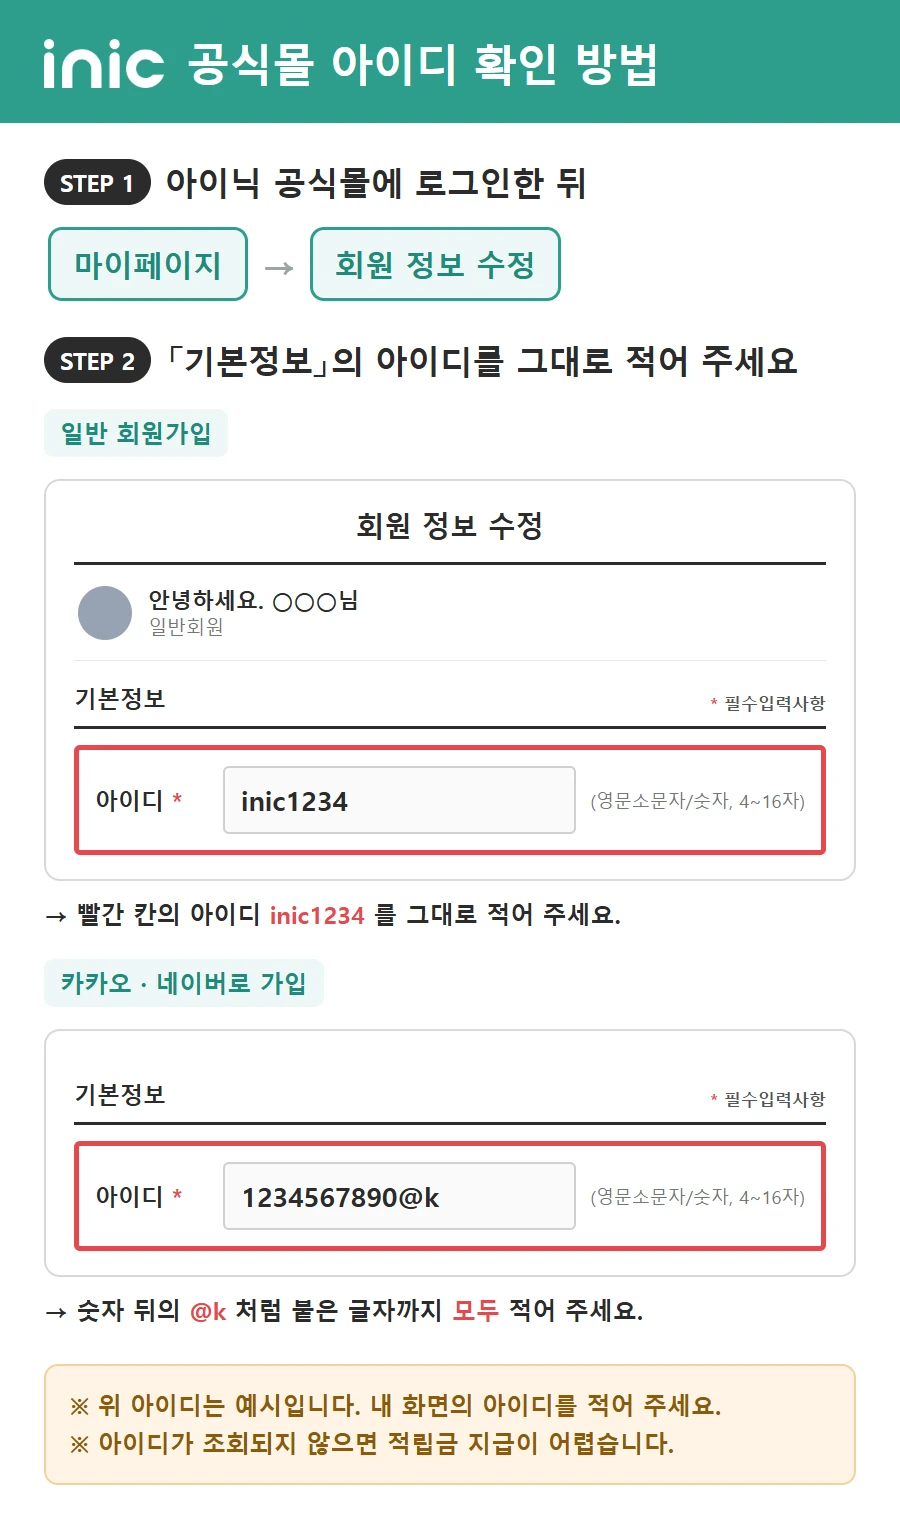
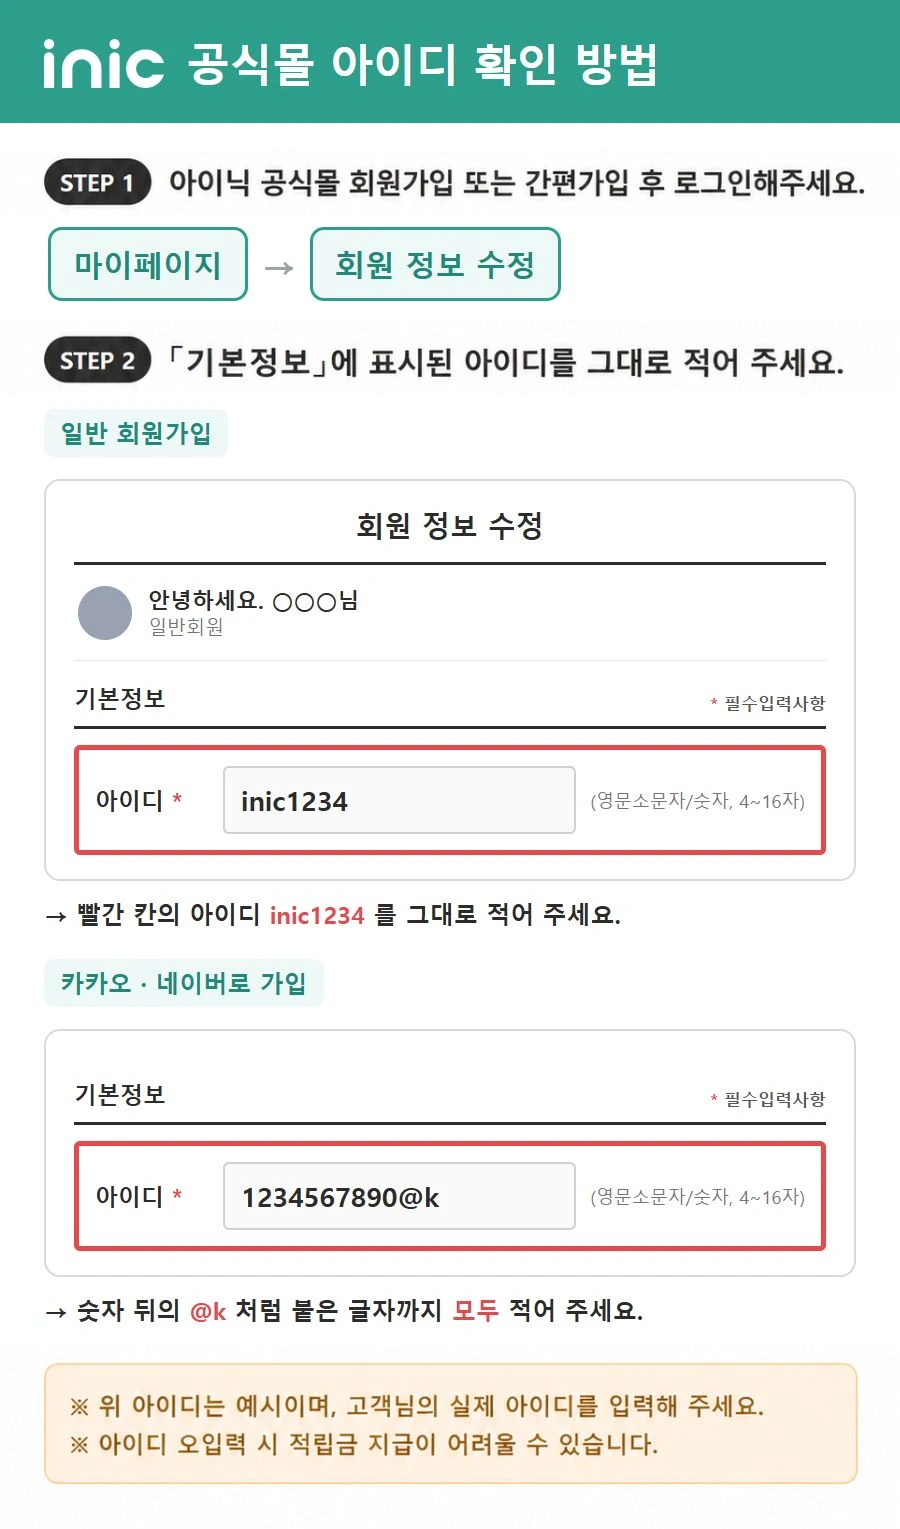
접수폼·관리자 화면: 포인트 「전체 지급 완료」·지급일(고객검색·참여 조회) · 상품권 재발송(수기접수 탭·상품권 탭·고객검색 재발송 내역·일괄 출고 「상품권 재발송」 시트) · 접수폼 「다른 아이디로 받기」·가입 방식 표시 · 공식몰 아이디 안내 이미지 최신본

diff --git a/index.html b/index.html
@@ -179,9 +179,13 @@
   /* 공식몰 아이디 자동 확인(포인트 건, 2026-11-03) — 확인 중 · 확인됨 · 찾을 수 없음 */
   .found{margin-top:12px;padding:14px;border:1.5px solid #bfe3cd;background:#eaf6ef;border-radius:12px;color:#1f7a45;font-weight:800;font-size:14.5px;line-height:1.5}
   .found small{display:block;font-weight:600;color:#3d7a57;font-size:12.5px;margin-top:3px}
+  .found.dim{opacity:.55}
+  .alt{display:block;margin-top:10px;font-size:13.5px;font-weight:800;color:#1f7a45;text-decoration:underline;cursor:pointer}
+  .altbox{margin-top:12px;padding:12px;border:1.5px dashed #bfe3cd;border-radius:12px;background:#fbfdfb}
   .spin{margin-top:12px;padding:14px;border:1.5px dashed #dcd3c8;border-radius:12px;color:#8a827c;font-weight:700;font-size:14px;text-align:center}
   .pidopt{display:flex;align-items:center;gap:10px;margin-top:8px;padding:13px 14px;border:1.5px solid #bfe3cd;background:#fff;border-radius:12px;font-weight:800;font-size:15px;word-break:break-all;cursor:pointer}
   .pidopt input{width:20px;height:20px;flex:none}
+  .pidopt small{display:block;font-weight:600;color:#3d7a57;font-size:12.5px;margin-top:2px}
   .pidopt.on{background:#eaf6ef;border-color:#1f7a45}
   .errbox{display:none;margin-top:8px;padding:10px 12px;border:1.5px solid #f3c6c6;background:#fdecec;color:#b23b3b;border-radius:10px;font-size:13px;font-weight:700;line-height:1.5}
   .nav{position:fixed;bottom:0;left:50%;transform:translateX(-50%);width:100%;max-width:560px;
@@ -1530,6 +1534,7 @@ const POINT_ID_RE=/^[A-Za-z0-9][A-Za-z0-9@._-]{3,59}$/;
 const POINT_NOTICE="적립금은 고객님의 <b>아이닉 공식몰 아이디</b>로 지급됩니다. 아이디는 공식몰 <b>마이페이지 → 회원 정보 수정</b>에서 확인하실 수 있습니다. 카카오·네이버로 가입하신 경우 그 화면에 보이는 아이디(예: 1234567890@k)를 그대로 적어 주세요. 아이디가 조회되지 않으면 지급이 어렵습니다.";
 const POINT_ACK="네, 확인했습니다";
 const POINT_WARN="{{적립금은 아래 공식몰 아이디로 지급됩니다.}} 아이디가 조회되지 않으면 지급이 어려우니 한 번 더 확인해 주세요.";
+const POINT_WAIT="○○에 정상 참여되었습니다.\n{{적립금 지급 예정}}입니다. 지급이 완료되면 이 화면에서 지급일을 확인하실 수 있습니다.";      // 지급 전(2026-11-03 담당자 문구: 「지급예정」)
 const POINT_PAID="신청하신 ○○이 {{○○}} 지급되었습니다.\n아이닉 공식몰 마이페이지에서 적립금을 확인해 주세요.\n확인이 안 되시면 아래 채널을 통해 ‘채팅상담’을 선택하여 문의해 주세요.";
 /* 🔴 공식몰 로그인 주소(2026-11-03) — 로그인하면 마이페이지(/myshop/index.html)로 이동합니다. 공식몰(카페24) 쪽 주소가 바뀌면 여기를 고치세요. */
 const POINT_LOGIN_URL="https://i-nic.co.kr/member/login.html?returnUrl=%2Fmyshop%2Findex.html";
@@ -1549,7 +1554,7 @@ const state={type:null,card:"",event:"",category:"주방가전",product:null,fil
   files:[],          // 포토리뷰 캡처 여러 장 (2026-09-22) — state.file 은 그중 첫 장
   srcByCode:{},buyByCode:{},        // 원장의 판매처·구매일자 (프로모션 판단용)
   invNo:"",ordNo:"",autoName:"",autoPhone:"",token:"",
-  consent:{},esurvey:{},esurveyInit:false,survey:{},surveyFor:null,giftChoice:null,pointId:"",pointLookup:null,pointLookupP:null,pointIdOk:""};
+  consent:{},esurvey:{},esurveyInit:false,survey:{},surveyFor:null,giftChoice:null,pointId:"",pointLookup:null,pointLookupP:null,pointIdOk:"",altOpen:false,altId:""};
 const $=s=>document.querySelector(s), $$=s=>Array.from(document.querySelectorAll(s));
 /* 오류 안내 : 빨간 문구 + 해당 입력칸에 빨간 테두리까지 표시한다.
    글씨만으로는 어디가 문제인지 못 알아채는 경우가 많아서. */
@@ -1727,7 +1732,7 @@ $$(".type").forEach(t=>t.addEventListener("click",()=>{
 function clearForTypeChange(){
   clearLookup(); state.surveyKeep=null;
   state.product=null; state.file=null; state.files=[]; state.buyFile=null;
-  state.survey={}; state.surveyFor=null; state.esurvey={}; state.esurveyInit=false; state.giftChoice=null; state.infoFor=null; state.pointId=""; state.pointLookup=null; state.pointLookupP=null; state.pointIdOk="";
+  state.survey={}; state.surveyFor=null; state.esurvey={}; state.esurveyInit=false; state.giftChoice=null; state.infoFor=null; state.pointId=""; state.pointLookup=null; state.pointLookupP=null; state.pointIdOk=""; state.altOpen=false; state.altId="";
   {const eb=$("#entryBox"); if(eb) eb.innerHTML="";}
   ["#serial","#file","#buyFile","#vName","#vPhone","#vOrd","#vInv"].forEach(s=>{const el=$(s); if(el) el.value="";});
   {const sa=$("#serialAck"); if(sa) sa.checked=false;}
@@ -2202,13 +2207,34 @@ function pointIdHtml(){ return '<div id="pointIdBox">'+pointIdInner()+'</div>'; 
    구매 확인된 번호로 서버가 공식몰(카페24) 회원 아이디를 찾아 오면 입력 없이 「확인되었습니다」로 보여 줍니다.
    못 찾거나(번호가 다름·비회원) 카페24가 멈춘 경우에는 지금처럼 직접 입력합니다 — 접수는 절대 막지 않습니다.
    직접 적은 아이디는 「다음」에서 공식몰에 있는지 확인합니다(pointIdCheckGate · 서버 submitEntry 가 한 번 더 확인). */
+/* 가입 방식 표시 — 공식몰(카페24) 회원 아이디 끝이 @k 이면 카카오, @n 이면 네이버 가입 계정, @ 가 없으면 일반 가입(담당자 확인 화면 기준). 그 밖의 모양은 표시하지 않습니다. */
+function pidKind(id){ const s=String(id||""); return !s?"":/@k$/i.test(s)?"카카오 가입 계정":/@n$/i.test(s)?"네이버 가입 계정":(s.indexOf("@")<0?"일반 가입 계정":""); }
+/* 🔴 다른 아이디로 받기 (2026-11-03 사용자 요청 — 배우자 계정 등) — 자동 확인(1개)·계정 선택(2~5개) 화면 아래에 「직접 입력」을 둡니다.
+   직접 적은 아이디도 「다음」에서 공식몰에 있는지 확인하고(pointIdCheckGate), 서버가 접수 때 한 번 더 확인합니다. 조회된 번호의 계정이 아니므로 관리자 화면에는 「확인됨 · 번호 일치 아님」으로 보입니다. */
+function pointAltHtml(){
+  if(!state.altOpen) return '<a class="alt" id="altT">▸ 다른 아이디로 받으실 경우 직접 입력</a>';
+  return '<div class="altbox"><label class="fld" for="altid">다른 아이디 (직접 입력)</label>'
+    +'<input type="text" id="altid" maxlength="60" placeholder="예) inic1234 · 1234567890@k" autocomplete="off" autocapitalize="off" spellcheck="false" value="'+esc(state.altId||"")+'">'
+    +'<div class="hint">공식몰에 있는 아이디만 가능합니다. 위 계정 대신 <b>이 아이디로 적립금이 지급</b>됩니다. 아이디를 정확히 적어 주세요.</div>'
+    +'<div class="err" id="err-alt">아이닉 공식몰 아이디를 정확히 입력해 주세요.</div>'
+    +'<div class="errbox" id="nfAlt">아이디를 찾을 수 없습니다.<br>공식몰 마이페이지 → 회원 정보 수정의 아이디를 다시 확인해 주세요.</div>'
+    +'<a class="alt" id="altX">× 직접 입력 닫기 (조회된 계정으로 받기)</a></div>';
+}
+function bindPointAlt(){
+  const T=$("#altT"); if(T) T.addEventListener("click",()=>{ state.altOpen=true; renderPointIdBox(); const i=$("#altid"); if(i) i.focus(); });
+  const X=$("#altX"); if(X) X.addEventListener("click",()=>{                     // 닫으면 조회된 계정(1개) 또는 고른 계정으로 되돌립니다
+    state.altOpen=false; state.altId=""; const pl=state.pointLookup||{};
+    state.pointId=pl.status==="found"?pl.id:(pl.status==="multi"&&pl.ids.includes(state.pointIdOk)?state.pointIdOk:"");
+    renderPointIdBox(); });
+  const A=$("#altid"); if(A) A.addEventListener("input",()=>{ state.altId=A.value; hideErr("err-alt"); const n=$("#nfAlt"); if(n) n.style.display="none"; });
+}
 function pointIdInner(){
   const pl=state.pointLookup;
   if(pl&&pl.status==="loading") return '<div class="spin">⏳ 공식몰 회원 확인 중…</div>';
-  if(pl&&pl.status==="multi") return '<div class="found">✅ 이 번호로 가입된 공식몰 회원이 '+pl.ids.length+'개 확인되었습니다<small>적립금을 받으실 아이디를 선택해 주세요</small>'
-    +pl.ids.map(id=>'<label class="pidopt'+(state.pointId===id?' on':'')+'"><input type="radio" name="pidPick" value="'+esc(id)+'"'+(state.pointId===id?' checked':'')+'><span>'+esc(id)+'</span></label>').join("")
-    +'<div class="err" id="err-pointId">적립금을 받으실 아이디를 선택해 주세요.</div></div>';
-  if(pl&&pl.status==="found") return '<div class="found">✅ 공식몰 회원이 확인되었습니다<div style="font-size:18px;margin-top:5px;word-break:break-all">'+esc(pl.id)+'</div><small>적립금은 이 아이디로 지급됩니다</small></div>';
+  if(pl&&pl.status==="multi") return '<div class="found'+(state.altOpen?' dim':'')+'">✅ 이 번호로 가입된 공식몰 회원이 '+pl.ids.length+'개 확인되었습니다<small>'+(state.altOpen?'아래에 적은 다른 아이디로 지급됩니다':'적립금을 받으실 아이디를 선택해 주세요')+'</small>'
+    +pl.ids.map(id=>'<label class="pidopt'+(state.pointId===id?' on':'')+'"><input type="radio" name="pidPick" value="'+esc(id)+'"'+(state.pointId===id?' checked':'')+'><span>'+esc(id)+(pidKind(id)?'<small>'+pidKind(id)+'</small>':'')+'</span></label>').join("")
+    +'<div class="err" id="err-pointId">적립금을 받으실 아이디를 선택해 주세요.</div></div>'+pointAltHtml();
+  if(pl&&pl.status==="found") return '<div class="found'+(state.altOpen?' dim':'')+'">✅ 공식몰 회원이 확인되었습니다<div style="font-size:18px;margin-top:5px;word-break:break-all">'+esc(pl.id)+'</div><small>'+(pidKind(pl.id)?pidKind(pl.id)+' · ':'')+(state.altOpen?'아래에 적은 다른 아이디로 지급됩니다':'적립금은 이 아이디로 지급됩니다')+'</small></div>'+pointAltHtml();
   return '<div class="field" style="margin:12px 0 4px">'
     +'<label class="fld" for="pointId">아이닉 공식몰 아이디 <span class="req">*</span></label>'
     +'<input type="text" id="pointId" maxlength="60" placeholder="예) inic1234 · 1234567890@k" autocomplete="off" autocapitalize="off" spellcheck="false" value="'+esc(state.pointId||"")+'">'
@@ -2221,7 +2247,7 @@ function pointIdInner(){
 function bindPointId(){
   const el=$("#pointId");
   if(el) el.addEventListener("input",()=>{ state.pointId=el.value; hideErr("err-pointId"); const nf=$("#nf"); if(nf) nf.style.display="none"; });
-  bindPidPick(); pointLookupStart();
+  bindPidPick(); bindPointAlt(); pointLookupStart();
 }
 function bindPidPick(){
   $$("#pointIdBox input[name=pidPick]").forEach(r=>r.addEventListener("change",()=>{
@@ -2230,7 +2256,7 @@ function bindPidPick(){
     $$("#pointIdBox .pidopt").forEach(l=>l.classList.toggle("on",l.contains(r)));
   }));
 }
-function renderPointIdBox(){ const b=$("#pointIdBox"); if(!b) return; b.innerHTML=pointIdInner(); const el=$("#pointId"); if(el) el.addEventListener("input",()=>{ state.pointId=el.value; hideErr("err-pointId"); const nf=$("#nf"); if(nf) nf.style.display="none"; }); bindPidPick(); }
+function renderPointIdBox(){ const b=$("#pointIdBox"); if(!b) return; b.innerHTML=pointIdInner(); const el=$("#pointId"); if(el) el.addEventListener("input",()=>{ state.pointId=el.value; hideErr("err-pointId"); const nf=$("#nf"); if(nf) nf.style.display="none"; }); bindPidPick(); bindPointAlt(); }
 /* 구매 확인된 번호로 공식몰 아이디 찾기 — 한 번만(도장 하나당). 아이디가 딱 하나로 나오면 채우고, 없거나 여러 개이면 직접 입력 */
 function pointLookupStart(){
   if(DEMO_MODE || state.type!=="review" || !state.token || state.pointLookup) return;
@@ -2252,10 +2278,10 @@ function pointLookupStart(){
 function pointIdGateStep(step){ return step==="info" && state.type==="review" && !!state.token && !DEMO_MODE && rewardType(state.type,state.product)==="point"; }
 async function pointIdCheckGate(){
   const pl=state.pointLookup||{}, pid=String(state.pointId||"").trim();
-  if(pl.status==="found" || pl.status==="multi" || !pid || state.pointIdOk===pid) return true;
+  if(((pl.status==="found" || pl.status==="multi") && !state.altOpen) || !pid || state.pointIdOk===pid) return true;
   let r=null; try{ r=await eventApi({action:"pointIdLookup",token:state.token,check:pid},8000); }catch(_){}
   if(r && r.ok===true && r.found===true){ state.pointIdOk=pid; return true; }
-  if(r && r.ok===true && r.found===false){ const nf=$("#nf"); if(nf){ nf.style.display="block"; nf.scrollIntoView({behavior:"smooth",block:"center"}); } return false; }
+  if(r && r.ok===true && r.found===false){ const nf=$(state.altOpen?"#nfAlt":"#nf"); if(nf){ nf.style.display="block"; nf.scrollIntoView({behavior:"smooth",block:"center"}); } return false; }
   return true;
 }function openPointIdEx(){ exOpen(POINT_GUIDE_IMG,"아이닉 공식몰 아이디 확인 방법",false,false); }
 window.openPointIdEx=openPointIdEx;
@@ -2749,7 +2775,7 @@ async function lookupPurchase(){
         + outLine + (outLine && usedLine ? '<br>' : '') + usedLine + '</div>'
       : "";
     state.token=res.token||"";          // 접수할 때 이 도장을 함께 보낸다
-    state.pointId=""; state.pointLookup=null; state.pointLookupP=null; state.pointIdOk="";   // 구매 조회를 다시 하면 공식몰 아이디 확인도 처음부터(다른 분의 아이디가 남지 않게)
+    state.pointId=""; state.pointLookup=null; state.pointLookupP=null; state.pointIdOk=""; state.altOpen=false; state.altId="";   // 구매 조회를 다시 하면 공식몰 아이디 확인도 처음부터(다른 분의 아이디가 남지 않게)
     /* 프로모션 판단용 — 원장의 판매처·구매일자 */
     state.srcByCode=res.srcByCode||{}; state.buyByCode=res.buyByCode||{};
     state.qtyByCode=qtyByCode; state.usedByCode=usedByCode; state.prodCodes=remainCodes;
@@ -2881,8 +2907,13 @@ function validateStep(step){
     } else hideErr("err-addr");
     if(state.type==="review" && leftQty()>1 && !state.qtyMode){showErr("err-qty");ok=false;}else hideErr("err-qty");
     if(REQ.rewardAck && state.consent.reward!==rw){showErr("err-reward");ok=false;}else hideErr("err-reward");
-    if(rw==="point"){ const found=state.pointLookup&&(state.pointLookup.status==="found"||state.pointLookup.status==="multi"); const pid=found?String(state.pointId||"").trim():(($("#pointId")||{}).value||"").trim(); state.pointId=pid;
-      if(!POINT_ID_RE.test(pid)){showErr("err-pointId");ok=false;}else hideErr("err-pointId"); }
+    if(rw==="point"){ const found=state.pointLookup&&(state.pointLookup.status==="found"||state.pointLookup.status==="multi");
+      if(found&&state.altOpen){                                                    // 다른 아이디로 받기 — 직접 적은 아이디가 최종 값
+        const av=(($("#altid")||{}).value||"").trim(); state.altId=av; state.pointId=av;
+        if(!POINT_ID_RE.test(av)){showErr("err-alt");ok=false;}else hideErr("err-alt");
+      } else {
+        const pid=found?String(state.pointId||"").trim():(($("#pointId")||{}).value||"").trim(); state.pointId=pid;
+        if(!POINT_ID_RE.test(pid)){showErr("err-pointId");ok=false;}else hideErr("err-pointId"); } }
     return ok;
   } return true;
 }
@@ -3079,8 +3110,8 @@ async function lookupParticipation(){
           h+=`<div style="${MSG}">`
             +(rsvOn
               ? MSGH("doneGiftReserve", RESERVE_DFLT, [rsvAt || RESERVE_TBD])
-              : MSGH("checkWait","○○에 정상 참여되었습니다.\n○○은 순차적으로 발송되며, 평균적으로 일주일 이내 받아보실 수 있습니다.",[ev,what]))
-            +(MSGK(wKey,true)?kakao:"")+`</div>`;
+              : (e.rewardType==="point" ? MSGH("", POINT_WAIT, [ev]) : MSGH("checkWait","○○에 정상 참여되었습니다.\n○○은 순차적으로 발송되며, 평균적으로 일주일 이내 받아보실 수 있습니다.",[ev,what])))     // 포인트는 「지급 예정」 문구(2026-11-03)
+            +((e.rewardType==="point"||MSGK(wKey,true))?kakao:"")+`</div>`;
         }
         return h+`</div>`;}).join("");
   }catch(err){box.innerHTML='<div class="cpempty">'+rich(MSGT("checkErr","조회 중 오류가 발생했습니다. 잠시 후 다시 시도해 주세요."))+'</div>';}
@@ -3143,7 +3174,7 @@ function renderConfirm(){
         + ckRow("이메일", $("#email").value.trim(), "", "info", "#email");
   /* 주소는 사은품일 때만 받습니다 — 상품권이면 줄 자체를 안 보여 줍니다 */
   if(rw === "gift") h += ckRow("주소", addr, "", "info", "#addrRoad");
-  if(pnt) h += ckRow("공식몰 아이디", state.pointId || "", "", "info", "#pointId");
+  if(pnt) h += ckRow("공식몰 아이디", (state.pointId || "")+(state.pointId&&pidKind(state.pointId)?" ("+pidKind(state.pointId)+")":"")+(state.altOpen&&state.pointId?" · 직접 입력한 다른 아이디":""), "", "info", "#pointId");
   h += '</div>';
 
   /* 🔴 「신청 내용」에는 수정 단추를 두지 않습니다 (2026-09-14 담당자 요청).
@@ -3508,7 +3539,7 @@ function resetForm(){
      state 는 np 인데 화면은 다른 탭이 열리는 어긋남이 있었습니다. */
   $$("#vtabs .vtab").forEach(b=>b.classList.toggle("on",b.dataset.vt==="np"));
   ["np","ord","inv"].forEach(k=>{const el=$("#vp-"+k); if(el) el.classList.toggle("on",k==="np");});
-  state.consent={};state.survey={};state.surveyFor=null;state.giftChoice=null;state.infoFor=null;state.pointId=""; state.pointLookup=null; state.pointLookupP=null; state.pointIdOk="";
+  state.consent={};state.survey={};state.surveyFor=null;state.giftChoice=null;state.infoFor=null;state.pointId=""; state.pointLookup=null; state.pointLookupP=null; state.pointIdOk=""; state.altOpen=false; state.altId="";
   state.esurvey={};state.esurveyInit=false;{const eb=$("#entryBox");if(eb)eb.innerHTML="";}
   /* ⚠ #email 이 빠져 있어서, 접수를 끝내고 처음 화면으로 돌아와도 앞사람 이메일이
      그대로 남아 있었습니다(2026-09-09 발견). 같은 기기로 다른 분이 접수하면 남의 이메일이 들어갑니다.
